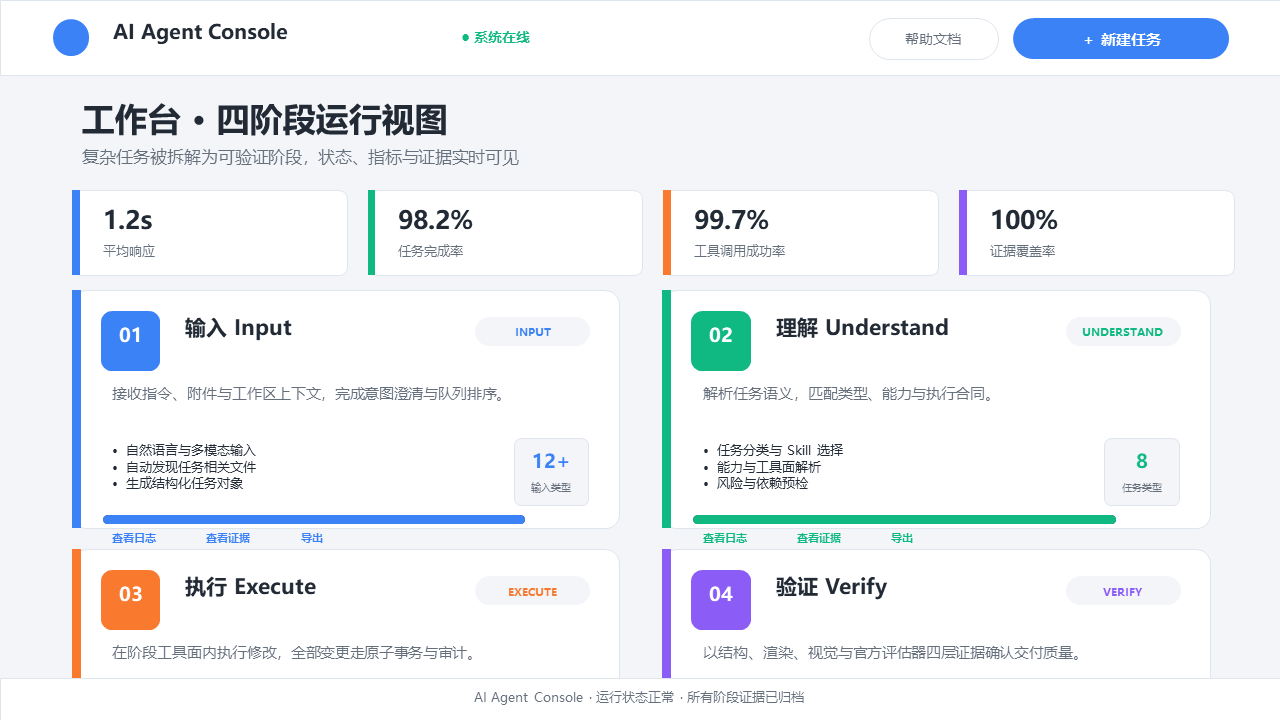
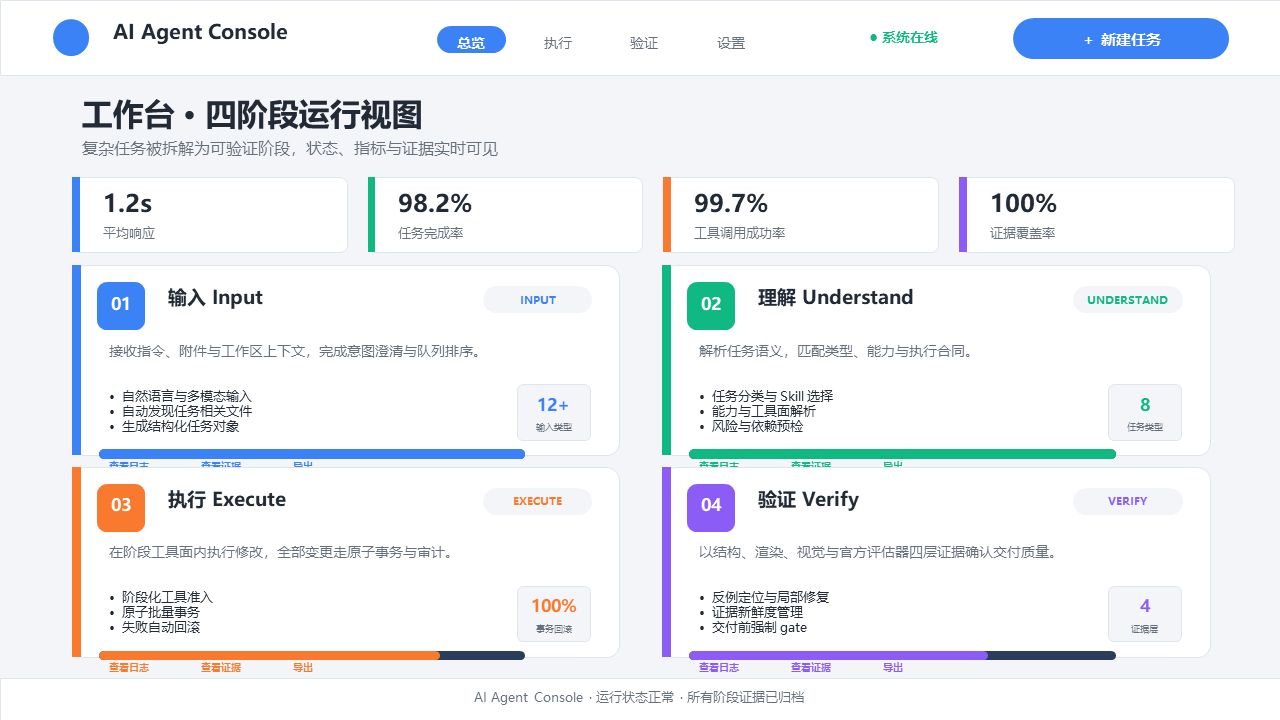
AI Agent workflow v5: nav tabs, compact dashboard grid, layout fits slide

diff --git a/benchmarks/manual_tasks/ai-agent-workflow/build_deck_v5.py b/benchmarks/manual_tasks/ai-agent-workflow/build_deck_v5.py
@@ -1,0 +1,193 @@
+"""AI Agent workflow deck v5.
+
+Page 1: native PPTX pipeline with status chip, five stage cards, progress
+bars and delivery bar.
+Page 2: HTML-dashboard style with nav tabs, compact KPI strip, 2x2 cards that
+fit the slide, progress bars and action links.
+"""
+from pathlib import Path
+from pptx import Presentation
+from pptx.util import Inches, Pt
+from pptx.dml.color import RGBColor
+from pptx.enum.shapes import MSO_SHAPE, MSO_CONNECTOR
+from pptx.enum.text import PP_ALIGN, MSO_ANCHOR
+
+OUT = Path(r"E:\project\agent\xiaopu\workspace\iteration_runs\tasks\ai-agent-workflow\output\ai_agent_workflow.pptx")
+OUT.parent.mkdir(parents=True, exist_ok=True)
+
+NAVY = RGBColor(0x0F, 0x1A, 0x2B)
+NAVY2 = RGBColor(0x18, 0x2B, 0x46)
+WHITE = RGBColor(0xFF, 0xFF, 0xFF)
+MUTED = RGBColor(0xA8, 0xB8, 0xCE)
+AMBER = RGBColor(0xF6, 0xB5, 0x44)
+INK = RGBColor(0x22, 0x2A, 0x35)
+GRAY = RGBColor(0x66, 0x70, 0x7D)
+PAPER = RGBColor(0xF3, 0xF5, 0xF8)
+CARD = RGBColor(0xFF, 0xFF, 0xFF)
+BORDER = RGBColor(0xDF, 0xE5, 0xEC)
+BLUE = RGBColor(0x3B, 0x82, 0xF6)
+GREEN = RGBColor(0x10, 0xB9, 0x81)
+ORANGE = RGBColor(0xF9, 0x7A, 0x2E)
+PURPLE = RGBColor(0x8B, 0x5C, 0xF6)
+CYAN = RGBColor(0x06, 0xB6, 0xD4)
+
+prs = Presentation()
+prs.slide_width = Inches(13.333)
+prs.slide_height = Inches(7.5)
+BLANK = prs.slide_layouts[6]
+
+
+def rect(slide, x, y, w, h, fill, line=None, round_=False, radius=0.12):
+    kind = MSO_SHAPE.ROUNDED_RECTANGLE if round_ else MSO_SHAPE.RECTANGLE
+    sh = slide.shapes.add_shape(kind, Inches(x), Inches(y), Inches(w), Inches(h))
+    sh.fill.solid(); sh.fill.fore_color.rgb = fill
+    if line is None:
+        sh.line.fill.background()
+    else:
+        sh.line.color.rgb = line; sh.line.width = Pt(0.75)
+    sh.shadow.inherit = False
+    if round_:
+        try:
+            sh.adjustments[0] = radius
+        except Exception:
+            pass
+    return sh
+
+
+def text(slide, x, y, w, h, value, size, color, bold=False, align=PP_ALIGN.LEFT,
+         anchor=MSO_ANCHOR.TOP, spacing=1.0, font="Microsoft YaHei"):
+    box = slide.shapes.add_textbox(Inches(x), Inches(y), Inches(w), Inches(h))
+    tf = box.text_frame
+    tf.word_wrap = True
+    tf.vertical_anchor = anchor
+    for i, line in enumerate(value.split("\n")):
+        p = tf.paragraphs[0] if i == 0 else tf.add_paragraph()
+        p.alignment = align
+        p.line_spacing = spacing
+        r = p.add_run(); r.text = line
+        r.font.size = Pt(size); r.font.bold = bold; r.font.color.rgb = color; r.font.name = font
+    return box
+
+
+def arrow(slide, x1, y1, x2, y2, color=AMBER):
+    c = slide.shapes.add_connector(MSO_CONNECTOR.STRAIGHT, Inches(x1), Inches(y1), Inches(x2), Inches(y2))
+    c.line.color.rgb = color; c.line.width = Pt(2)
+    ln = c.line._get_or_add_ln()
+    ln.append(ln.makeelement("{http://schemas.openxmlformats.org/drawingml/2006/main}headEnd",
+                             {"type": "arrow", "w": "med", "len": "med"}))
+
+
+def progress(slide, x, y, w, frac, color):
+    rect(slide, x, y, w, 0.10, RGBColor(0x2A, 0x3D, 0x5A), None, True, 0.5)
+    rect(slide, x, y, max(0.08, w * frac), 0.10, color, None, True, 0.5)
+
+
+# ---------------- page 1 ----------------
+s1 = prs.slides.add_slide(BLANK)
+rect(s1, 0, 0, 13.333, 7.5, NAVY)
+rect(s1, 0, 0, 13.333, 0.10, AMBER)
+rect(s1, 0, 7.14, 13.333, 0.36, NAVY2)
+text(s1, 0.85, 0.50, 8.2, 0.4, "AI AGENT · WORKFLOW OVERVIEW", 12, AMBER, True)
+rect(s1, 10.65, 0.50, 1.85, 0.44, GREEN, None, True, 0.5)
+text(s1, 10.65, 0.56, 1.85, 0.30, "● 系统就绪", 10.5, WHITE, True, PP_ALIGN.CENTER)
+text(s1, 0.85, 0.88, 11.6, 1.0, "AI Agent 工作流程", 40, WHITE, True)
+text(s1, 0.85, 1.92, 11.6, 0.55, "从任务输入到可验证交付的六阶段闭环，每个阶段都产出可审计证据", 17, MUTED)
+text(s1, 0.85, 6.88, 11.6, 0.30, "交付物 · 结构化证据 · 可恢复会话", 11, MUTED, False, PP_ALIGN.CENTER)
+
+steps = [
+    ("01", "输入 Input", "接收指令、附件与工作区上下文", "产出：结构化任务对象", 1.0, AMBER),
+    ("02", "理解 Understand", "任务分类、能力匹配与计划生成", "产出：执行合同与工具面", 1.0, BLUE),
+    ("03", "规划 Plan", "拆解阶段、预检风险与依赖关系", "产出：执行计划", 0.9, CYAN),
+    ("04", "执行 Execute", "工具调用、原子事务与权限审计", "产出：候选产物", 0.75, ORANGE),
+    ("05", "验证 Verify", "结构、渲染、视觉与官方评估器", "产出：验证证据", 0.6, GREEN),
+]
+x0, y0, w, h, gap = 0.72, 3.05, 2.16, 2.86, 0.22
+for i, (num, title, desc, deliver, frac, accent) in enumerate(steps):
+    x = x0 + i * (w + gap)
+    rect(s1, x, y0, w, h, NAVY2, RGBColor(0x2E, 0x42, 0x62), True, 0.09)
+    chip = rect(s1, x + 0.18, y0 + 0.18, 0.54, 0.54, accent, None, True, 0.5)
+    tf = chip.text_frame; tf.word_wrap = False
+    p = tf.paragraphs[0]; p.alignment = PP_ALIGN.CENTER
+    r = p.add_run(); r.text = num; r.font.size = Pt(13); r.font.bold = True; r.font.color.rgb = NAVY
+    text(s1, x + 0.16, y0 + 0.92, w - 0.32, 0.42, title, 14.5, WHITE, True)
+    text(s1, x + 0.16, y0 + 1.38, w - 0.32, 0.75, desc, 10.5, MUTED, spacing=1.04)
+    rect(s1, x + 0.16, y0 + 2.20, w - 0.32, 0.34, RGBColor(0x21, 0x35, 0x55), None, True, 0.5)
+    text(s1, x + 0.24, y0 + 2.26, w - 0.48, 0.22, deliver, 8.5, accent)
+    progress(s1, x + 0.16, y0 + 2.66, w - 0.32, frac, accent)
+    if i < len(steps) - 1:
+        arrow(s1, x + w + 0.03, y0 + h / 2, x + w + gap - 0.03, y0 + h / 2)
+
+rect(s1, 0.72, 6.28, 11.90, 0.56, NAVY2, RGBColor(0x2E, 0x42, 0x62), True, 0.5)
+text(s1, 0.92, 6.40, 11.5, 0.34, "INPUT → UNDERSTAND → PLAN → EXECUTE → VERIFY → DELIVER", 12.5, AMBER, True, PP_ALIGN.CENTER)
+
+# ---------------- page 2 ----------------
+s2 = prs.slides.add_slide(BLANK)
+rect(s2, 0, 0, 13.333, 7.5, PAPER)
+rect(s2, 0, 0, 13.333, 0.78, CARD, BORDER)
+rect(s2, 0.55, 0.20, 0.38, 0.38, BLUE, None, True, 0.5)
+text(s2, 1.08, 0.16, 3.2, 0.45, "AI Agent Console", 15, INK, True)
+tabs = [("总览", True), ("执行", False), ("验证", False), ("设置", False)]
+tx = 4.55
+for label, active in tabs:
+    wtab = 0.72
+    if active:
+        rect(s2, tx, 0.27, wtab, 0.28, BLUE, None, True, 0.5)
+        text(s2, tx, 0.31, wtab, 0.22, label, 10.5, WHITE, True, PP_ALIGN.CENTER)
+    else:
+        text(s2, tx, 0.31, wtab, 0.22, label, 10.5, GRAY, False, PP_ALIGN.CENTER)
+    tx += wtab + 0.18
+text(s2, 8.95, 0.25, 1.6, 0.32, "● 系统在线", 10.5, GREEN, True)
+rect(s2, 10.55, 0.19, 2.25, 0.42, BLUE, None, True, 0.5)
+text(s2, 10.55, 0.26, 2.25, 0.30, "＋ 新建任务", 11.5, WHITE, True, PP_ALIGN.CENTER)
+
+text(s2, 0.75, 0.94, 11.8, 0.48, "工作台 · 四阶段运行视图", 23, INK, True)
+text(s2, 0.75, 1.40, 11.8, 0.34, "复杂任务被拆解为可验证阶段，状态、指标与证据实时可见", 12, GRAY)
+
+kpis = [
+    ("1.2s", "平均响应", BLUE), ("98.2%", "任务完成率", GREEN),
+    ("99.7%", "工具调用成功率", ORANGE), ("100%", "证据覆盖率", PURPLE),
+]
+kw = 2.86; kgap = 0.22; kx = 0.75; ky = 1.84; kh = 0.78
+for i, (value, label, color) in enumerate(kpis):
+    x = kx + i * (kw + kgap)
+    rect(s2, x, ky, kw, kh, CARD, BORDER, True, 0.10)
+    rect(s2, x, ky, 0.08, kh, color)
+    text(s2, x + 0.22, ky + 0.08, kw - 0.4, 0.30, value, 18, INK, True)
+    text(s2, x + 0.22, ky + 0.46, kw - 0.4, 0.24, label, 9.5, GRAY)
+
+cards = [
+    ("INPUT", "输入 Input", "01", BLUE, "接收指令、附件与工作区上下文，完成意图澄清与队列排序。",
+     ["自然语言与多模态输入", "自动发现任务相关文件", "生成结构化任务对象"], "12+", "输入类型", 1.0),
+    ("UNDERSTAND", "理解 Understand", "02", GREEN, "解析任务语义，匹配类型、能力与执行合同。",
+     ["任务分类与 Skill 选择", "能力与工具面解析", "风险与依赖预检"], "8", "任务类型", 1.0),
+    ("EXECUTE", "执行 Execute", "03", ORANGE, "在阶段工具面内执行修改，全部变更走原子事务与审计。",
+     ["阶段化工具准入", "原子批量事务", "失败自动回滚"], "100%", "事务回滚", 0.8),
+    ("VERIFY", "验证 Verify", "04", PURPLE, "以结构、渲染、视觉与官方评估器四层证据确认交付质量。",
+     ["反例定位与局部修复", "证据新鲜度管理", "交付前强制 gate"], "4", "证据层", 0.7),
+]
+positions = [(0.75, 2.76), (6.90, 2.76), (0.75, 4.86), (6.90, 4.86)]
+cw, ch = 5.70, 1.98
+for (tag, title, num, accent, desc, bullets, metric, metric_label, frac), (cx, cy) in zip(cards, positions):
+    rect(s2, cx, cy, cw, ch, CARD, BORDER, True, 0.07)
+    rect(s2, cx, cy, 0.09, ch, accent)
+    rect(s2, cx + 0.26, cy + 0.18, 0.50, 0.50, accent, None, True, 0.2)
+    text(s2, cx + 0.26, cy + 0.24, 0.50, 0.36, num, 13, WHITE, True, PP_ALIGN.CENTER)
+    text(s2, cx + 0.90, cy + 0.16, 2.4, 0.34, title, 14.5, INK, True)
+    rect(s2, cx + cw - 1.42, cy + 0.22, 1.14, 0.28, PAPER, None, True, 0.5)
+    text(s2, cx + cw - 1.42, cy + 0.25, 1.14, 0.20, tag, 8, accent, True, PP_ALIGN.CENTER)
+    text(s2, cx + 0.28, cy + 0.76, cw - 0.56, 0.46, desc, 10.5, GRAY, spacing=1.02)
+    bullets = "\n".join("•  " + b for b in bullets)
+    text(s2, cx + 0.28, cy + 1.24, cw - 1.26, 0.58, bullets, 9.5, INK, spacing=0.98)
+    rect(s2, cx + cw - 1.06, cy + 1.24, 0.76, 0.58, PAPER, BORDER, True, 0.10)
+    text(s2, cx + cw - 1.06, cy + 1.30, 0.76, 0.24, metric, 12.5, accent, True, PP_ALIGN.CENTER)
+    text(s2, cx + cw - 1.06, cy + 1.58, 0.76, 0.20, metric_label, 7, GRAY, False, PP_ALIGN.CENTER)
+    progress(s2, cx + 0.28, cy + 1.92, cw - 1.26, frac, accent)
+    text(s2, cx + 0.28, cy + 1.98, 1.0, 0.16, "查看日志", 7.5, accent, True)
+    text(s2, cx + 1.24, cy + 1.98, 1.0, 0.16, "查看证据", 7.5, accent, True)
+    text(s2, cx + 2.20, cy + 1.98, 1.0, 0.16, "导出", 7.5, accent, True)
+
+rect(s2, 0, 7.06, 13.333, 0.44, CARD, BORDER)
+text(s2, 0.75, 7.13, 11.8, 0.30, "AI Agent Console · 运行状态正常 · 所有阶段证据已归档", 10, GRAY, False, PP_ALIGN.CENTER)
+
+prs.save(OUT)
+print("saved", OUT, "slides", len(prs.slides))
